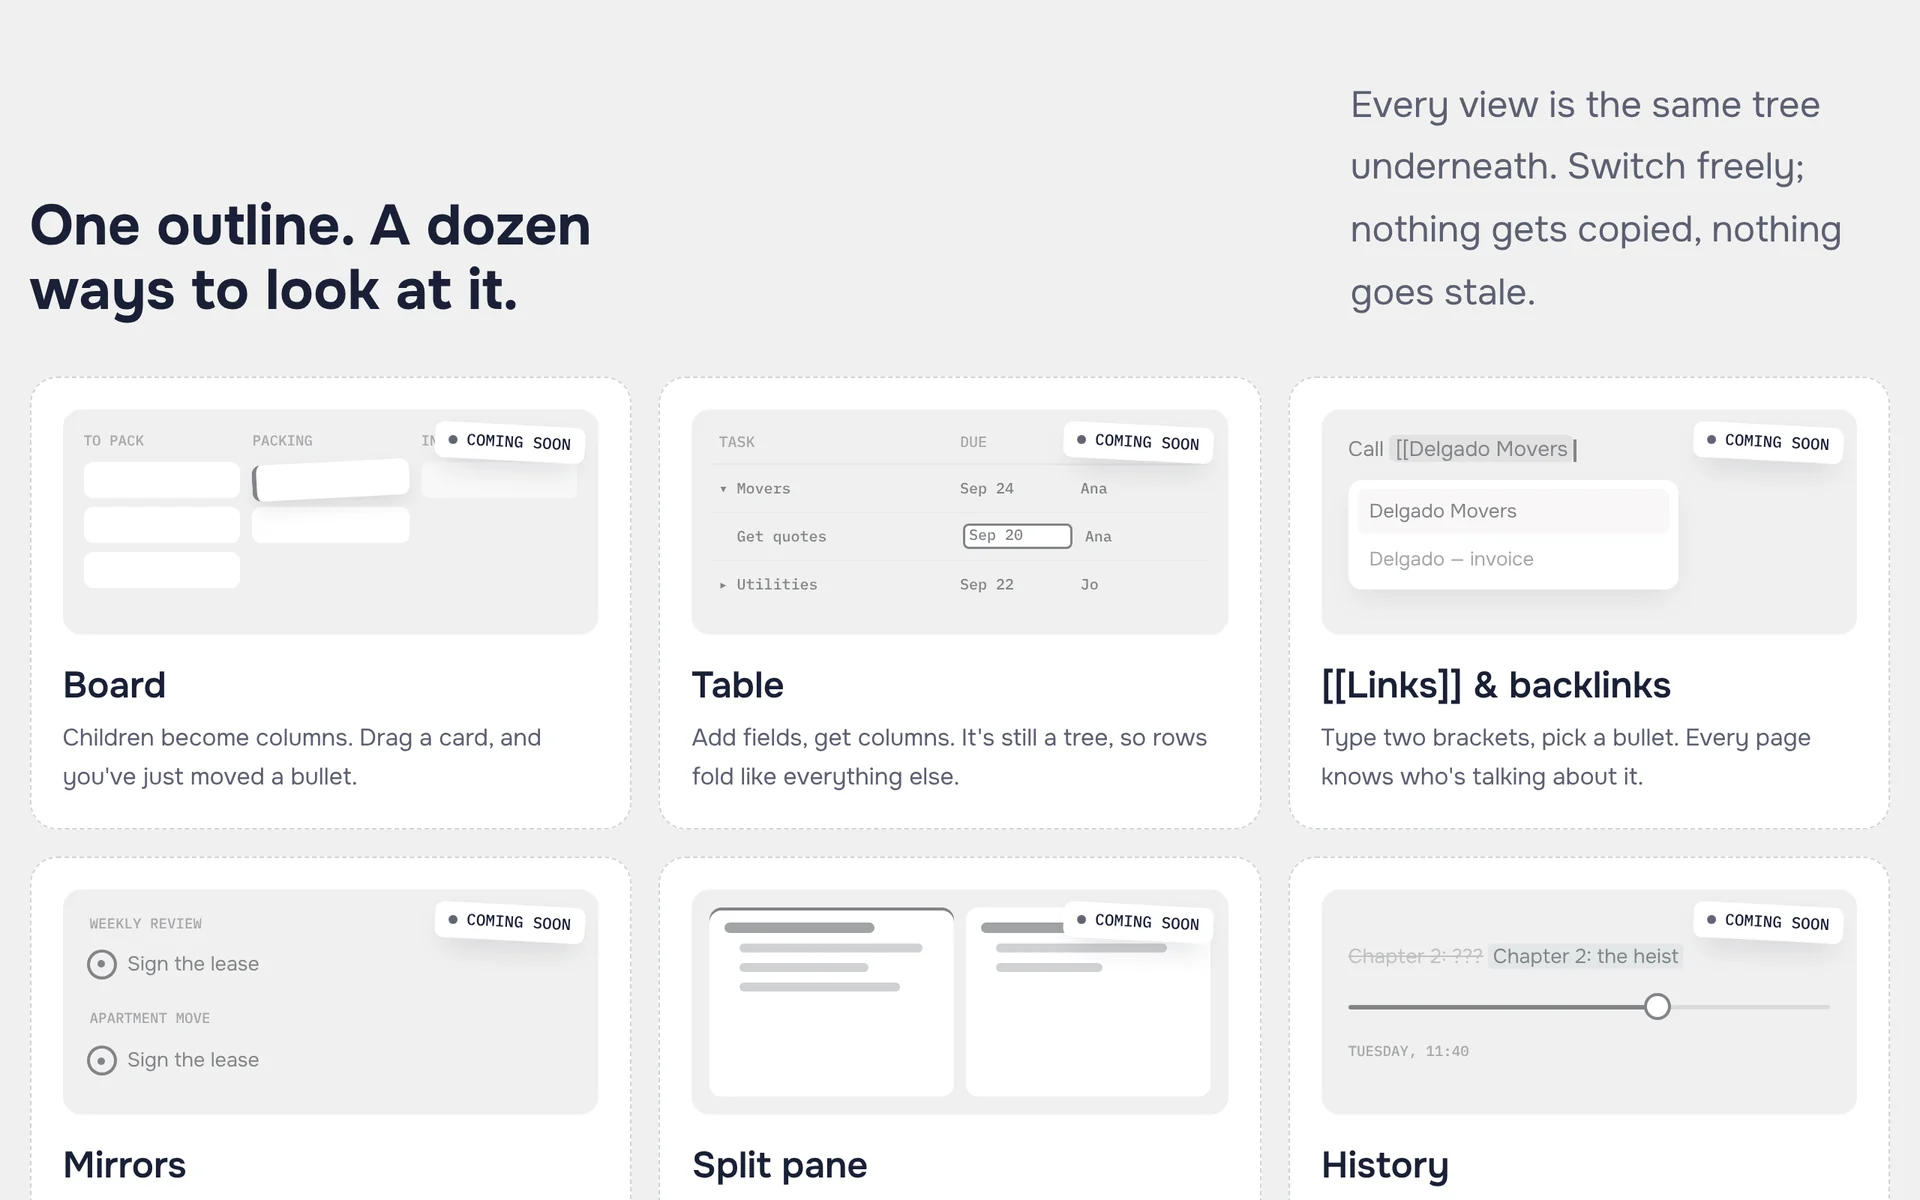
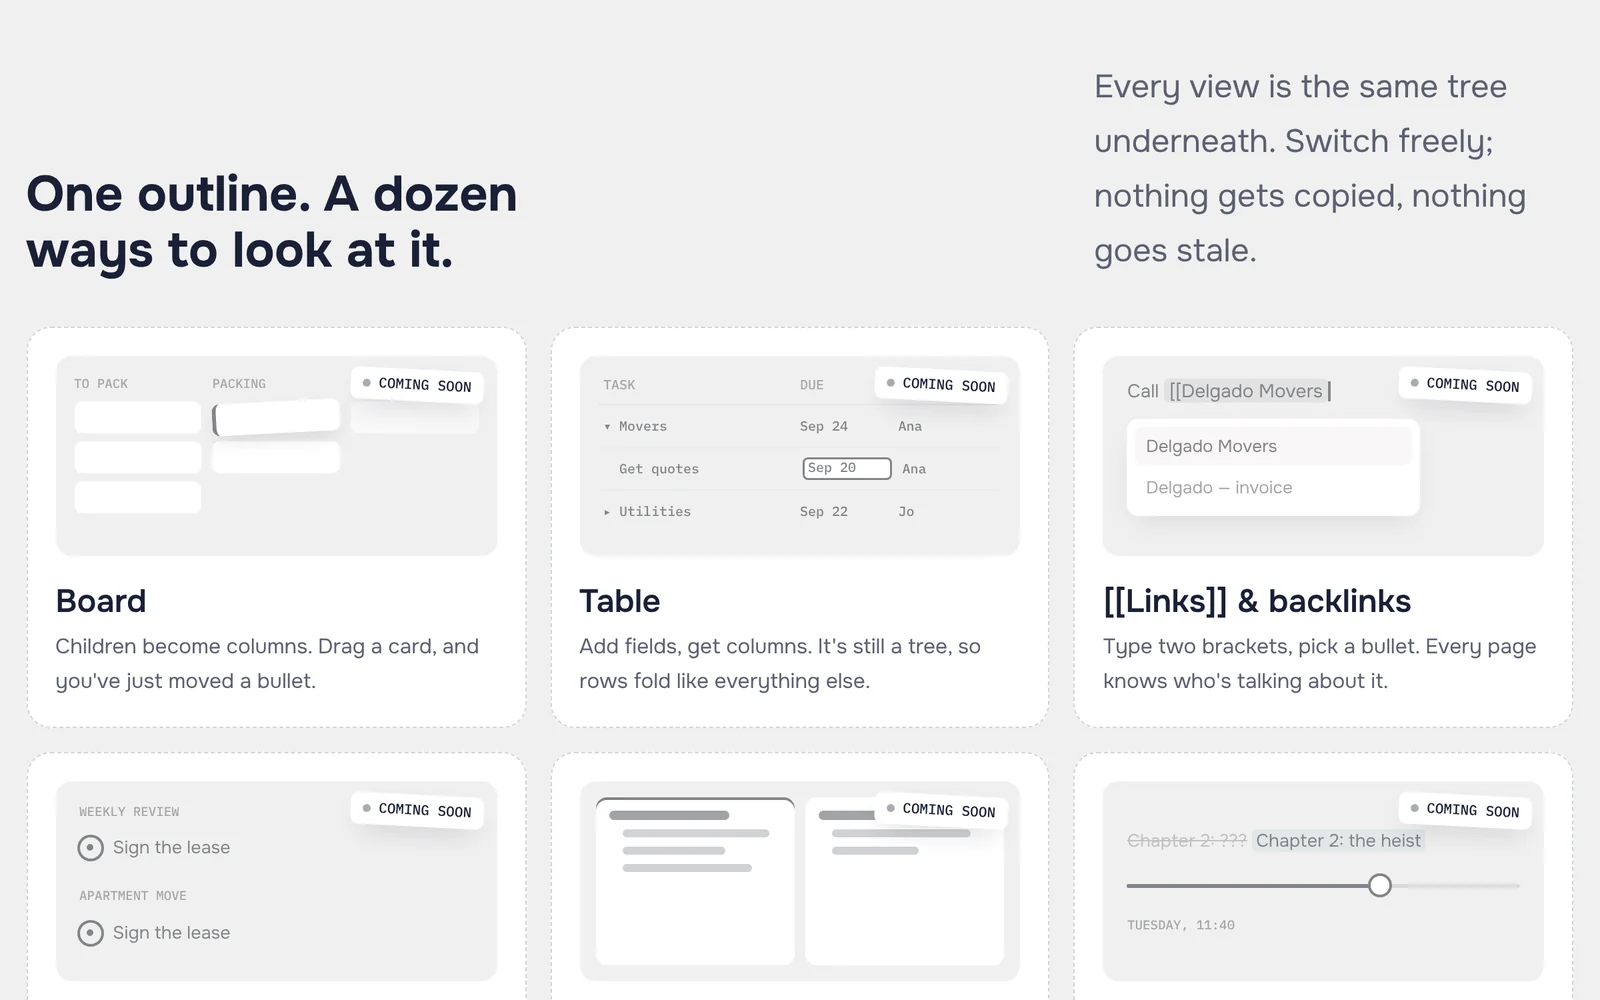
feat(website): frame Cascadelist screenshots in a browser window on a coloured backdrop
Cascadelist shares this site's colours, so its screenshots blended into
the page. Add a BrowserFrame component (window bar with address, tinted
backdrop, shadow) and recapture the screenshots at tighter viewports.

Claude-Session: https://claude.ai/code/session_018nu1ELxjLkbYSoMvjB9whx

diff --git a/apps/website/src/components/ui/browser-frame/browser-frame.tsx b/apps/website/src/components/ui/browser-frame/browser-frame.tsx
@@ -1,0 +1,40 @@
+import { cva, type VariantProps } from 'class-variance-authority'
+import type { ReactNode } from 'react'
+
+const backdropStyles = cva('rounded-card', {
+  variants: {
+    tone: { navy: 'bg-navy', plum: 'bg-plum', azure: 'bg-azure', coral: 'bg-coral' },
+    inset: { sm: 'p-fluid-xs', md: 'p-fluid-m' },
+  },
+  defaultVariants: { tone: 'navy', inset: 'md' },
+})
+
+export type BrowserFrameVariants = NonNullable<VariantProps<typeof backdropStyles>>
+
+export type BrowserFrameProps = BrowserFrameVariants & {
+  /** Address shown in the window's bar, e.g. `example.com`. */
+  url: string
+  children: ReactNode
+}
+
+/** A screenshot in a browser window on a coloured backdrop, so it reads as a picture and not as part of the page. */
+export function BrowserFrame({ tone, inset, url, children }: BrowserFrameProps) {
+  return (
+    <div className={backdropStyles({ tone, inset })}>
+      <div className="overflow-hidden rounded-md bg-snow shadow-[0_24px_48px_-16px_rgba(0,0,0,.5)]">
+        <div className="flex items-center gap-3 border-b border-gray-300 bg-white px-3.5 py-2.5" aria-hidden="true">
+          <span className="flex flex-1 gap-1.5">
+            <span className="size-2.5 rounded-full bg-snow-deep" />
+            <span className="size-2.5 rounded-full bg-snow-deep" />
+            <span className="size-2.5 rounded-full bg-snow-deep" />
+          </span>
+          <span className="min-w-0 max-w-[60%] truncate rounded-pill bg-snow px-4 py-1 text-xs text-navy/70">
+            {url}
+          </span>
+          <span className="flex-1" />
+        </div>
+        <div className="*:rounded-none">{children}</div>
+      </div>
+    </div>
+  )
+}

diff --git a/apps/website/src/components/cascade/gallery.tsx b/apps/website/src/components/cascade/gallery.tsx
@@ -2,21 +2,25 @@ import { Shot } from './shot'
 
 const shots = [
   {
+    url: 'app.cascadelist.com',
     src: '/projects/cascade/menu.webp',
     alt: 'The right-click menu on a line, with the Convert into submenu showing Text and Task',
     caption: 'Right-click any line to convert, indent, zoom, duplicate or delete it.',
   },
   {
+    url: 'app.cascadelist.com',
     src: '/projects/cascade/palette.webp',
     alt: "The command palette searching for 'chapter', with two matching nodes and an option to create a new one",
     caption: 'The command palette searches every node and jumps straight to it.',
   },
   {
+    url: 'app.cascadelist.com/node/478b73f3',
     src: '/projects/cascade/zoom.webp',
     alt: "The 'Sprint 14' line zoomed in as its own page, showing its three tasks",
     caption: 'Zoomed in, a line becomes its own page with its own URL.',
   },
   {
+    url: 'app.cascadelist.com',
     src: '/projects/cascade/onboarding.webp',
     alt: "Cascade onboarding, titled 'Everything is a line', listing the five gestures that drive the app",
     caption: 'Onboarding explains the whole app in five lines.',
@@ -27,7 +31,7 @@ export function Gallery() {
   return (
     <div className="mt-fluid-4xl grid gap-x-3 gap-y-8 md:grid-cols-2">
       {shots.map((shot) => (
-        <Shot key={shot.src} {...shot} />
+        <Shot key={shot.src} inset="sm" {...shot} />
       ))}
     </div>
   )

diff --git a/apps/website/src/components/cascade/shot.tsx b/apps/website/src/components/cascade/shot.tsx
@@ -1,14 +1,15 @@
+import { BrowserFrame, type BrowserFrameVariants } from '@/components/ui/browser-frame/browser-frame'
 import { Image, type ImageProps } from '@/components/ui/image/image'
 import { Label } from '@/components/ui/label/label'
 
-type ShotProps = Pick<ImageProps, 'src' | 'alt' | 'ratio'> & { caption: string }
+type ShotProps = Pick<ImageProps, 'src' | 'alt'> & BrowserFrameVariants & { url: string; caption: string }
 
-export function Shot({ caption, ratio = '16/9', ...props }: ShotProps) {
+export function Shot({ caption, tone, inset, url, ...props }: ShotProps) {
   return (
     <figure className="flex flex-col gap-3">
-      <div className="overflow-hidden rounded-card">
-        <Image ratio={ratio} {...props} />
-      </div>
+      <BrowserFrame tone={tone} inset={inset} url={url}>
+        <Image ratio="16/10" {...props} />
+      </BrowserFrame>
       <Label size="xs" render={<figcaption />}>
         {caption}
       </Label>

diff --git a/apps/website/src/components/home/featured-project.tsx b/apps/website/src/components/home/featured-project.tsx
@@ -1,3 +1,4 @@
+import { BrowserFrame } from '@/components/ui/browser-frame/browser-frame'
 import { Image } from '@/components/ui/image/image'
 import { Tag } from '@/components/ui/tag/tag'
 import { Title } from '@/components/ui/title/title'
@@ -30,13 +31,13 @@ export function FeaturedProject() {
               </Typography>
             </div>
           </div>
-          <div className="overflow-hidden rounded-card">
+          <BrowserFrame inset="sm" url="app.cascadelist.com">
             <Image
-              ratio="4/3"
+              ratio="16/10"
               src="/projects/cascade/outline.webp"
               alt="A Cascade outline with three nested groups: a novel, a sprint with tasks, and groceries"
             />
-          </div>
+          </BrowserFrame>
         </a>
       </section>
     </>

diff --git a/apps/website/src/components/cascade/header.tsx b/apps/website/src/components/cascade/header.tsx
@@ -1,3 +1,4 @@
+import { BrowserFrame } from '@/components/ui/browser-frame/browser-frame'
 import { LinkButton } from '@/components/ui/button/link-button'
 import { Image } from '@/components/ui/image/image'
 import { Title } from '@/components/ui/title/title'
@@ -27,14 +28,14 @@ export function Header() {
           </LinkButton>
         </div>
       </div>
-      <div className="overflow-hidden rounded-card">
+      <BrowserFrame url="cascadelist.com">
         <Image
           priority
-          ratio="16/9"
+          ratio="16/10"
           src="/projects/cascade/website.webp"
           alt="The Cascadelist homepage: the headline 'Every thought gets a place to land' beside a small live outline"
         />
-      </div>
+      </BrowserFrame>
     </header>
   )
 }

diff --git a/apps/website/src/components/cascade/website.tsx b/apps/website/src/components/cascade/website.tsx
@@ -15,7 +15,8 @@ export function Website() {
             </Typography>
           </div>
           <Shot
-            ratio="16/10"
+            tone="plum"
+            url="cascadelist.com"
             src="/projects/cascade/features.webp"
             alt="The features section of cascadelist.com: cards for Board, Table, Links and backlinks, Mirrors, Split pane and History, each marked coming soon"
             caption="One outline, a dozen ways to look at it: the views on the roadmap."

diff --git a/apps/website/src/components/cascade/idea.tsx b/apps/website/src/components/cascade/idea.tsx
@@ -28,6 +28,8 @@ export function Idea() {
             </Typography>
           </div>
           <Shot
+            tone="coral"
+            url="app.cascadelist.com"
             src="/projects/cascade/outline.webp"
             alt="A Cascade outline with three nested groups: a novel, a sprint with tasks, and groceries"
             caption="A novel, a sprint and a grocery list in one outline, without an account."
